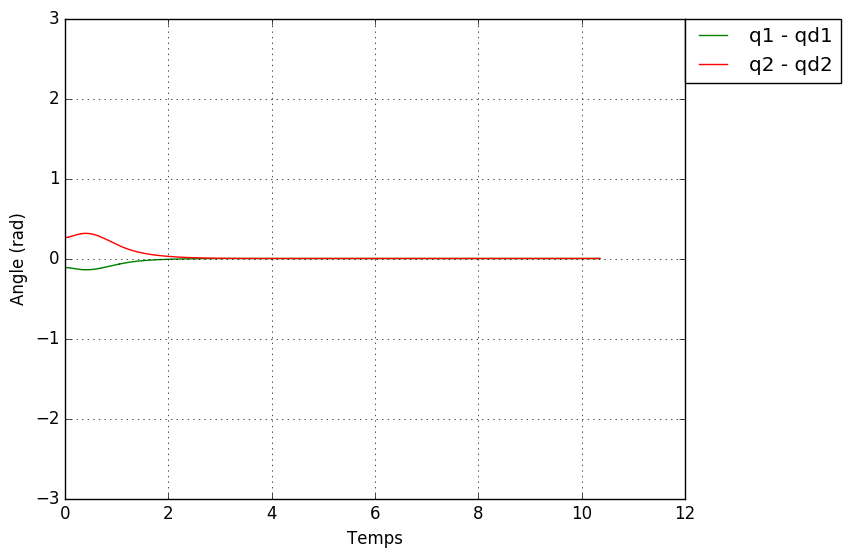
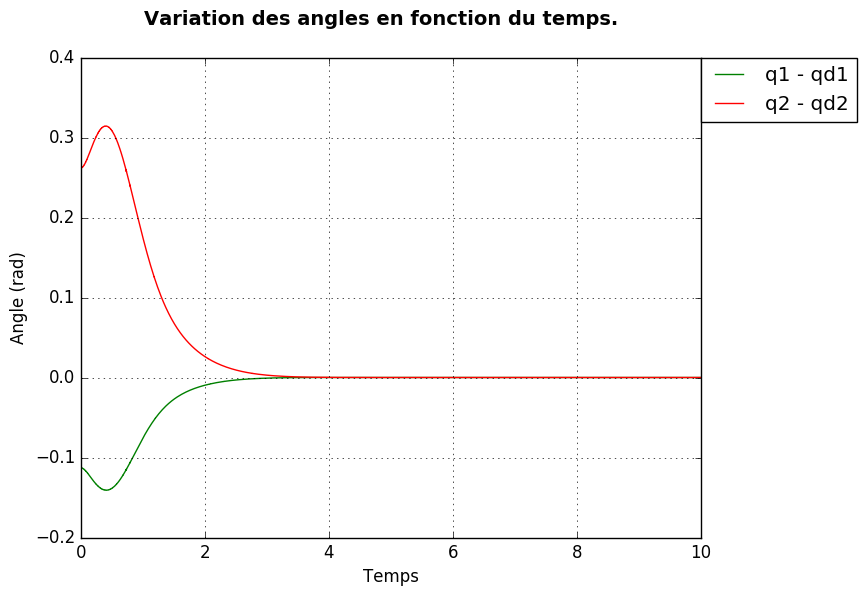
ajout titre

diff --git a/Code/plots.py b/Code/plots.py
@@ -50,8 +50,11 @@ plt.show()
 '''
 
 def do_plot(q1, q2, t, it=0):
+	print('plot ', it)
 	fig2 = plt.figure()
-	ax2 = fig2.add_subplot(111, ylim=(-3, 3))
+	fig2.suptitle('Variation des angles en fonction du temps.', fontsize=14, fontweight='bold')
+	ax2 = fig2.add_subplot(111, xlim=(0, 10))
+	#ax2.settitle()
 	ax2.grid()
 	ax2.set_xlabel('Temps')
 	ax2.set_ylabel('Angle (rad)')
